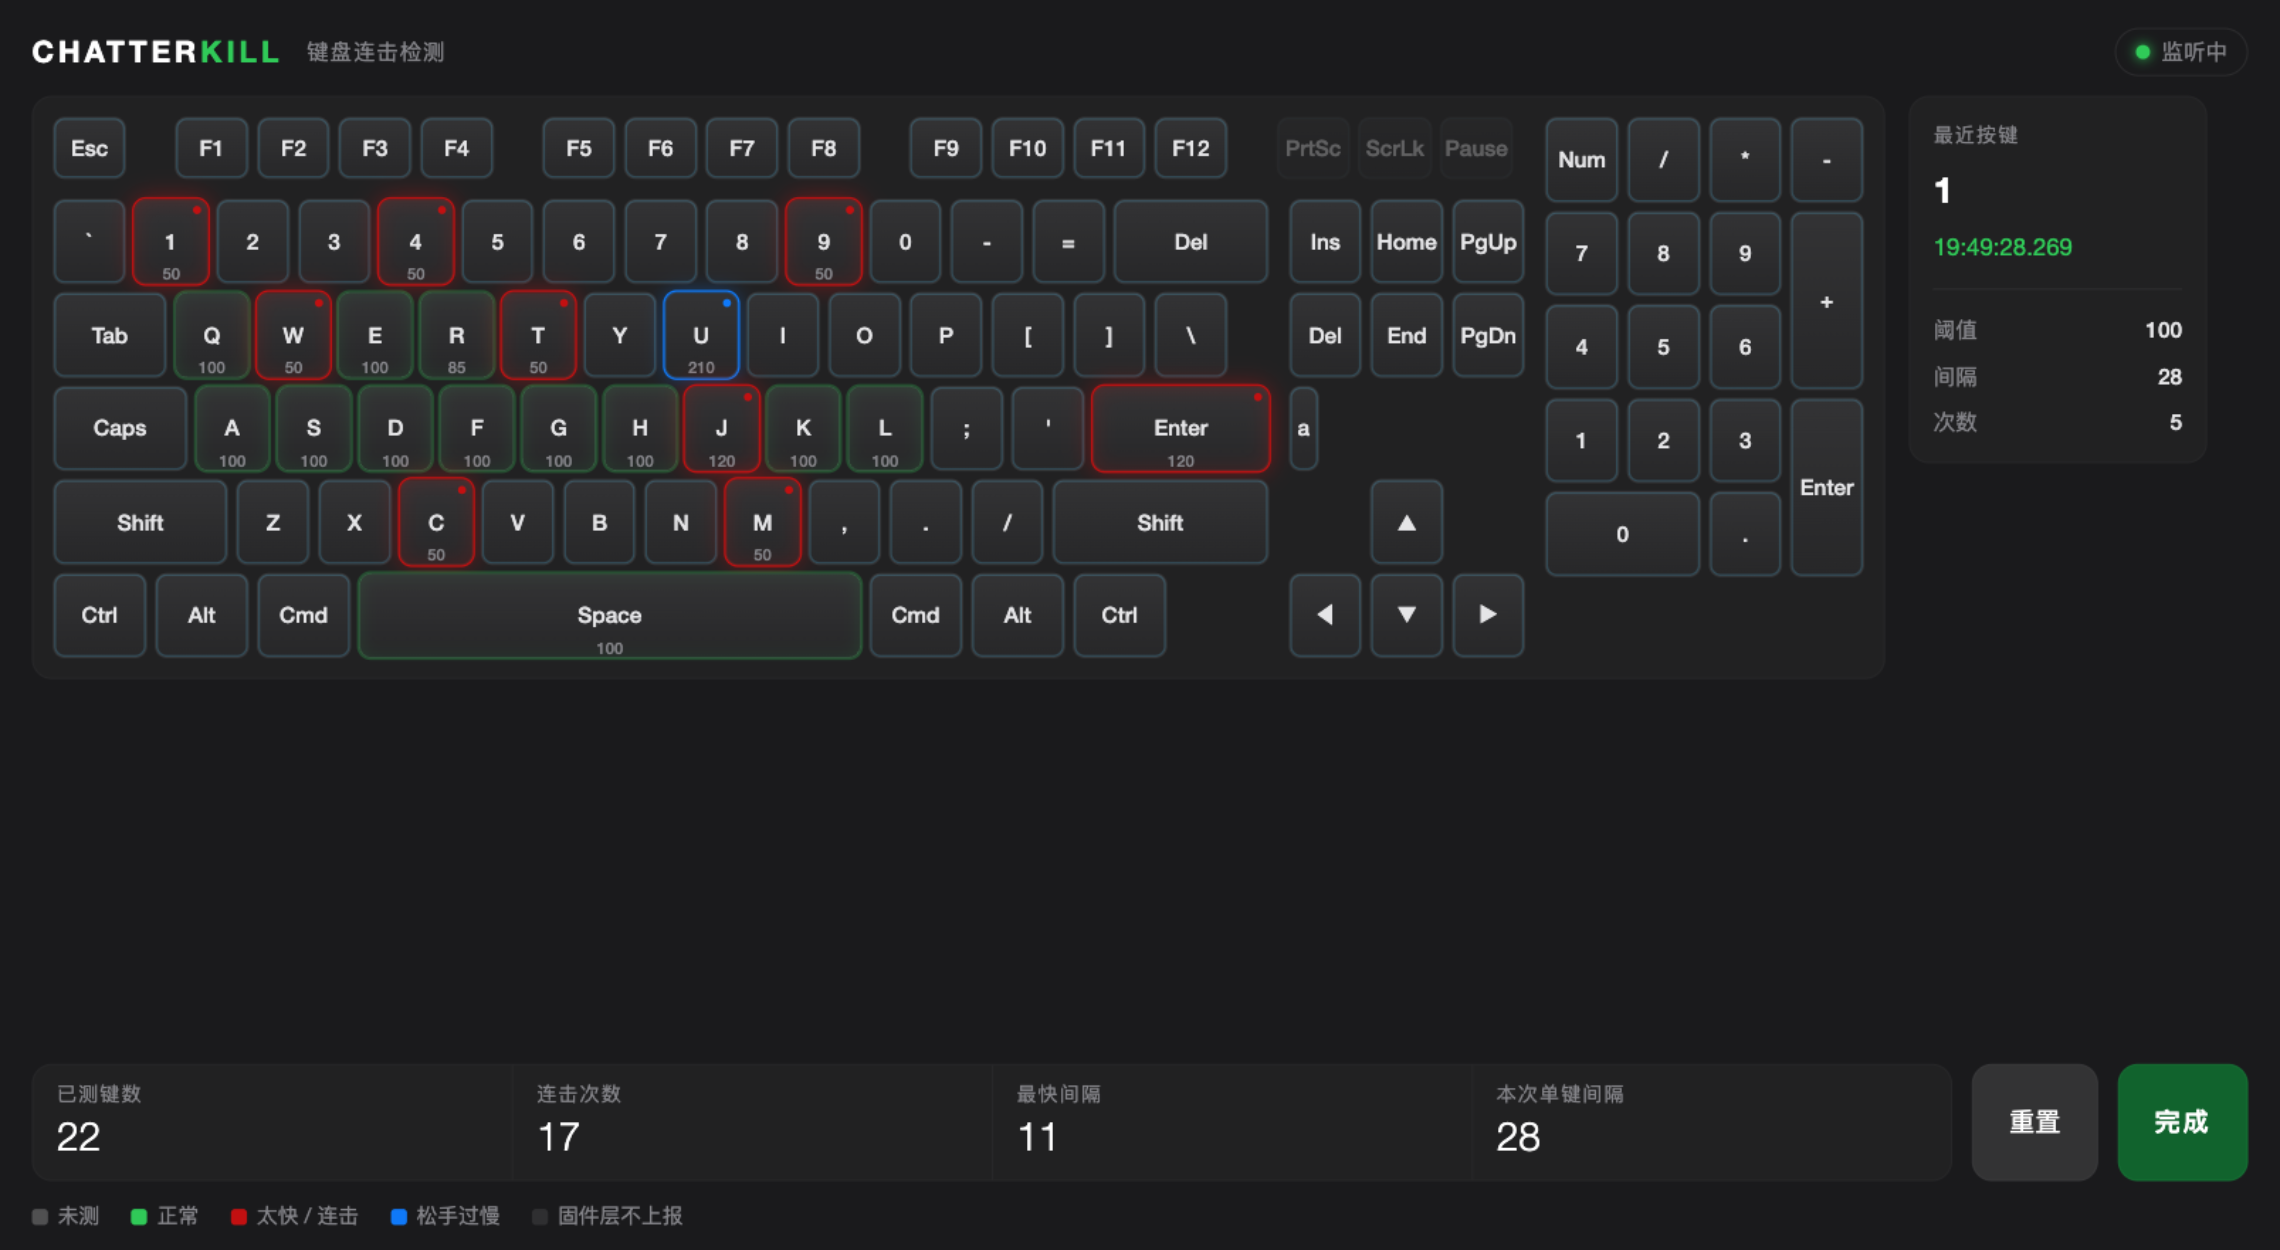
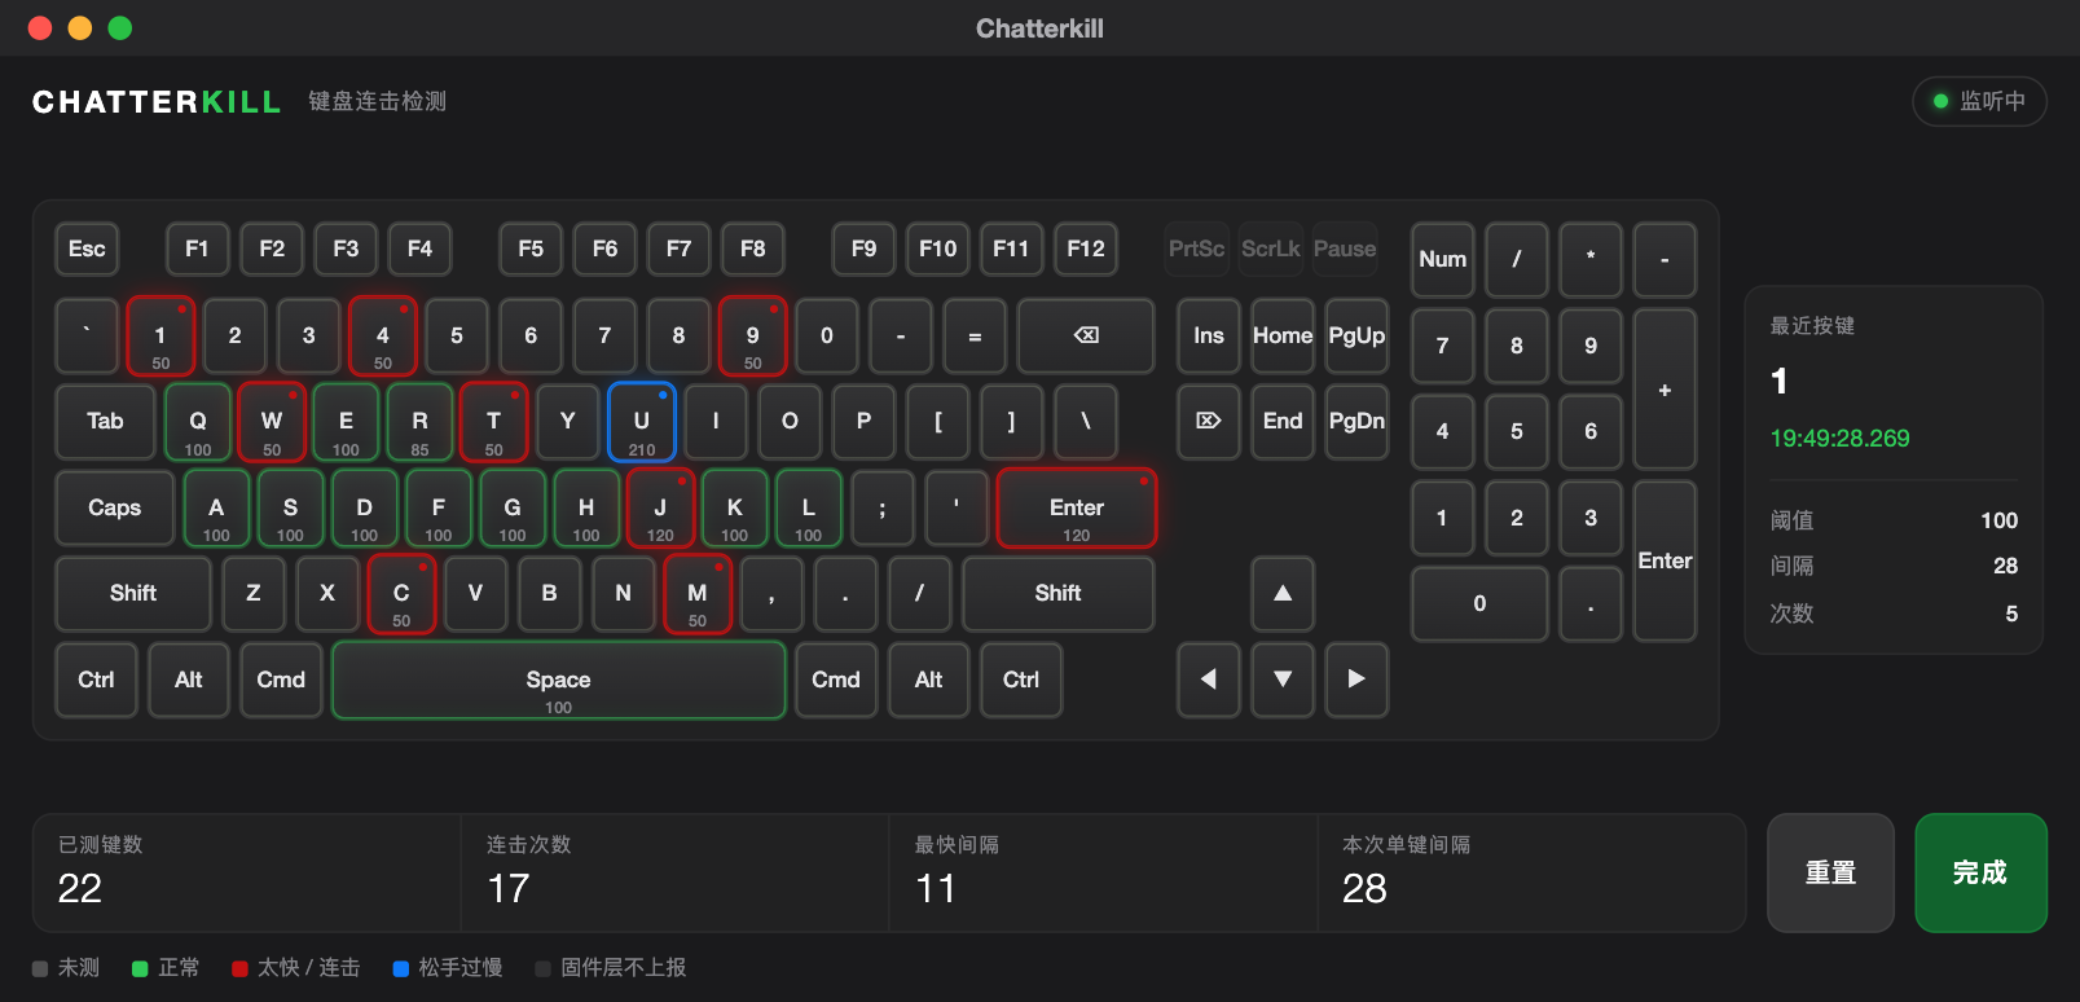
fix: 面板幽灵 a 键（['blank'] 笔误）+ ⌫/⌦ 标签 + 紧凑排版 + 未测描边 #ecfcca
- app.js: ['blank'] → 'blank'，'blank' 字符串被解构成 (b,l,a) 产生幽灵键
- 标签：主区 Delete → ⌫，导航 ForwardDelete → ⌦（data-key 不变）
- index.html: 未测描边 rgba(236,252,202,.18)；间距统一 10px；stage 垂直居中
- PanelController: 窗口 1040x620 → 1040x420（贴合内容），minSize 900x390
- docs/panel.png 换为新效果图（含窗口栏、五色状态、数据自洽）

diff --git a/Resources/web/index.html b/Resources/web/index.html
@@ -28,7 +28,7 @@
     color: var(--txt);
     font: 13px/1.4 -apple-system, "SF Pro Text", "Helvetica Neue", "PingFang SC", sans-serif;
     display: flex; flex-direction: column;
-    padding: 14px 16px 10px;
+    padding: 10px 16px 10px;
     gap: 10px;
     overflow: hidden;
   }
@@ -50,7 +50,7 @@
   .pill.fix:hover{ border-color:#ffd60a; }
 
   /* ---------- stage ---------- */
-  .stage{ display:flex; gap:12px; flex:1 1 auto; min-height:0; align-items:flex-start; }
+  .stage{ display:flex; gap:12px; flex:1 1 auto; min-height:0; align-items:center; }
   .board{ display:flex; gap:10px; padding:10px; background:var(--panel); border-radius:10px; border:1px solid #303032; }
   .col{ display:flex; flex-direction:column; gap:var(--gap); }
   .row{ display:flex; gap:var(--gap); height:var(--h); }
@@ -73,7 +73,7 @@
   .key.locked{ opacity:.32; cursor:not-allowed; }
 
   /* five states */
-  .key[data-state="untested"]{ box-shadow: inset 0 0 0 1px rgba(100,210,255,.22); }
+  .key[data-state="untested"]{ box-shadow: inset 0 0 0 1px rgba(236,252,202,.18); }
   .key[data-state="normal"]{ border-color: rgba(48,209,88,.65); box-shadow: 0 0 0 1px rgba(48,209,88,.28), inset 0 0 8px rgba(48,209,88,.12); }
   .key[data-state="chatter"]{ border-color: var(--red); box-shadow: 0 0 0 1px var(--red), 0 0 12px rgba(202,6,0,.55), inset 0 0 10px rgba(202,6,0,.22); }
   .key[data-state="slow"]{ border-color: var(--blue); box-shadow: 0 0 0 1px var(--blue), 0 0 10px rgba(10,132,255,.4); }

diff --git a/Sources/Chatterkill/App/PanelController.swift b/Sources/Chatterkill/App/PanelController.swift
@@ -46,14 +46,14 @@ final class PanelController: NSObject, NSWindowDelegate, WKScriptMessageHandler,
         configuration.preferences.javaScriptCanOpenWindowsAutomatically = false
         configuration.websiteDataStore = .nonPersistent()
 
-        let web = WKWebView(frame: NSRect(x: 0, y: 0, width: 1040, height: 620), configuration: configuration)
+        let web = WKWebView(frame: NSRect(x: 0, y: 0, width: 1040, height: 420), configuration: configuration)
         web.autoresizingMask = [.width, .height]
         web.allowsBackForwardNavigationGestures = false
         web.navigationDelegate = self
         web.underPageBackgroundColor = NSColor(calibratedRed: 0.11, green: 0.11, blue: 0.12, alpha: 1)
 
         let panel = NSWindow(
-            contentRect: NSRect(x: 0, y: 0, width: 1040, height: 620),
+            contentRect: NSRect(x: 0, y: 0, width: 1040, height: 420),
             styleMask: [.titled, .closable, .miniaturizable, .resizable],
             backing: .buffered,
             defer: false
@@ -63,7 +63,7 @@ final class PanelController: NSObject, NSWindowDelegate, WKScriptMessageHandler,
         panel.isReleasedWhenClosed = false
         panel.contentView = web
         panel.delegate = self
-        panel.minSize = NSSize(width: 900, height: 560)
+        panel.minSize = NSSize(width: 900, height: 390)
         panel.center()
 
         webView = web

diff --git a/Resources/web/app.js b/Resources/web/app.js
@@ -66,7 +66,7 @@ const FN_ROW = [
 
 const MAIN_ROWS = [
   [['`', 1], ['1', 1], ['2', 1], ['3', 1], ['4', 1], ['5', 1], ['6', 1], ['7', 1], ['8', 1], ['9', 1], ['0', 1],
-   ['-', 1], ['=', 1], ['Delete', 2, 'Del']],
+   ['-', 1], ['=', 1], ['Delete', 2, '⌫']],
   [['Tab', 1.5], ['Q', 1], ['W', 1], ['E', 1], ['R', 1], ['T', 1], ['Y', 1], ['U', 1], ['I', 1], ['O', 1], ['P', 1],
    ['[', 1], [']', 1], ['\\', 1]],
   [['CapsLock', 1.75, 'Caps'], ['A', 1], ['S', 1], ['D', 1], ['F', 1], ['G', 1], ['H', 1], ['J', 1], ['K', 1], ['L', 1],
@@ -79,8 +79,8 @@ const MAIN_ROWS = [
 
 const NAV_ROWS = [
   [['Help', 1, 'Ins'], ['Home', 1], ['PageUp', 1, 'PgUp']],
-  [['ForwardDelete', 1, 'Del'], ['End', 1], ['PageDown', 1, 'PgDn']],
-  ['blank'],
+  [['ForwardDelete', 1, '⌦'], ['End', 1], ['PageDown', 1, 'PgDn']],
+  'blank',
   [['sp', 1], ['UpArrow', 1, '▲'], ['sp', 1]],
   [['LeftArrow', 1, '◀'], ['DownArrow', 1, '▼'], ['RightArrow', 1, '▶']]
 ];

diff --git a/README.md b/README.md
@@ -119,9 +119,11 @@ The event engine and menu-bar shell are forked from [Eviduunce/Debounce](https:/
 - 全新家族化图标：酒瓶开关红底 squircle，App 内 icns 与 README 同步换新
 - 面板视觉统一：红以图标红（#ca0600）为基准，绿以键位描边绿为基准——KILL 标识、完成按钮、图例方块、监听中绿点、最近按键时间、阈值滑块全部对齐，色彩规范见 docs/COLORS.md
 - README 按 0.5.0 全面重写：功能补齐（两个保险开关）、文案精简、效果图与配色同步
+- 面板修复与排版：清掉布局数据笔误产生的幽灵「a」键；两个 Del 改为 ⌫ / ⌦ 消除歧义；窗口高度贴合内容、间距统一 10px，不再有大片留白；未测键描边换淡暖绿
 - Brand-new unified icon: swing-top bottle on a red squircle — same icon now in the app bundle (icns) and the README
 - Panel visuals unified: red follows the icon red (#ca0600), green follows the key-outline green — KILL wordmark, Done button, legend swatches, listening dot, last-key time and threshold slider all match; see docs/COLORS.md
 - README rewritten for 0.5.0: feature-complete (both safety toggles), tighter copy, screenshot in the new palette
+- Panel fixes & layout: removed the phantom "a" key caused by a layout-data typo; the two Del keys are now ⌫ / ⌦; window height hugs the content with a uniform 10px rhythm — no more dead space; untested keys get a faint warm-green hairline
 
 ### v0.4.0
 
